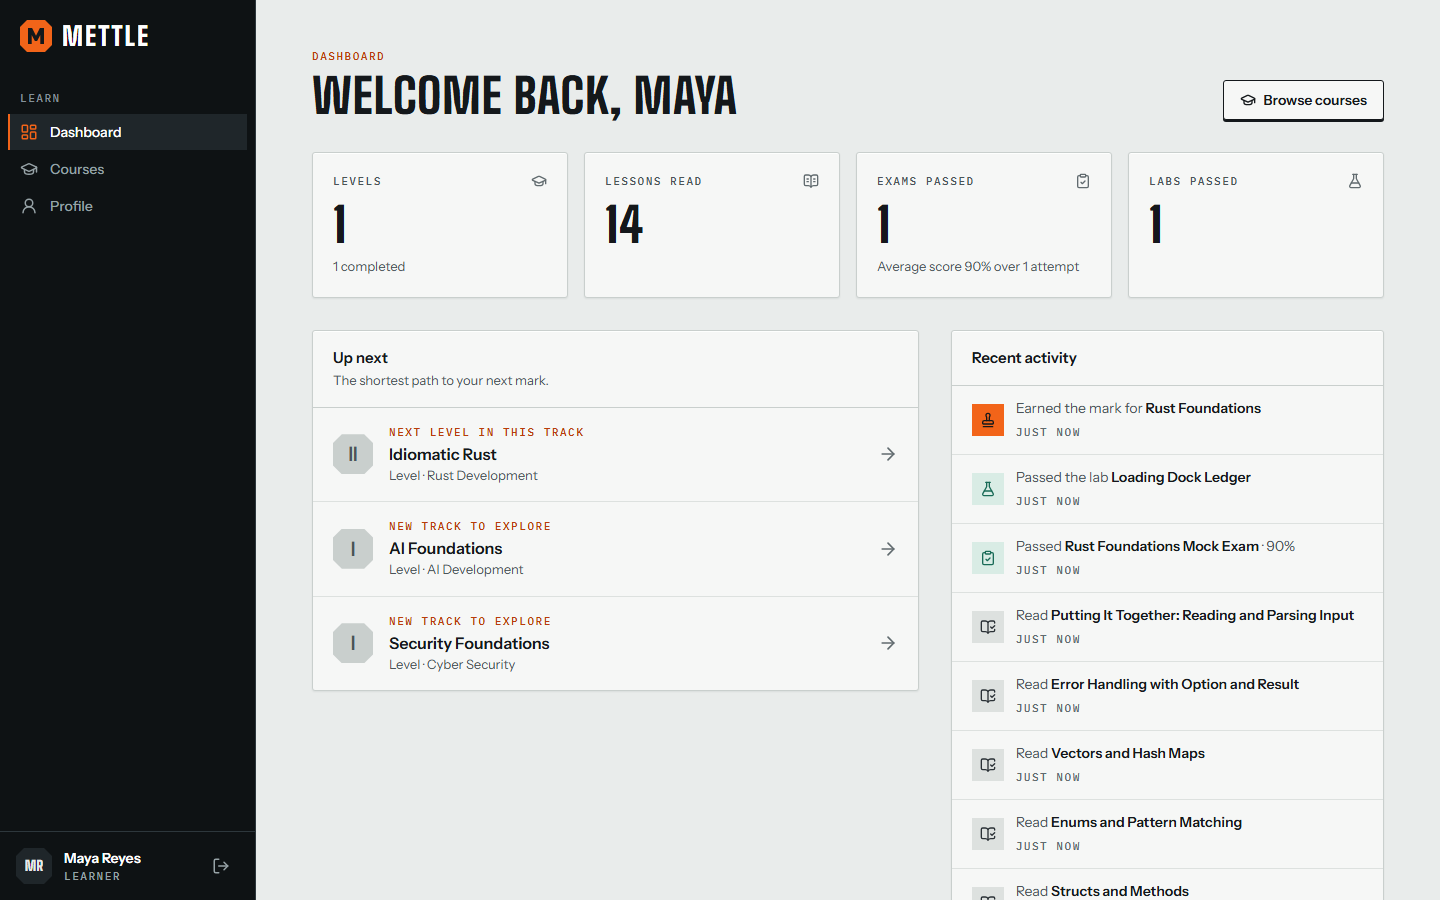
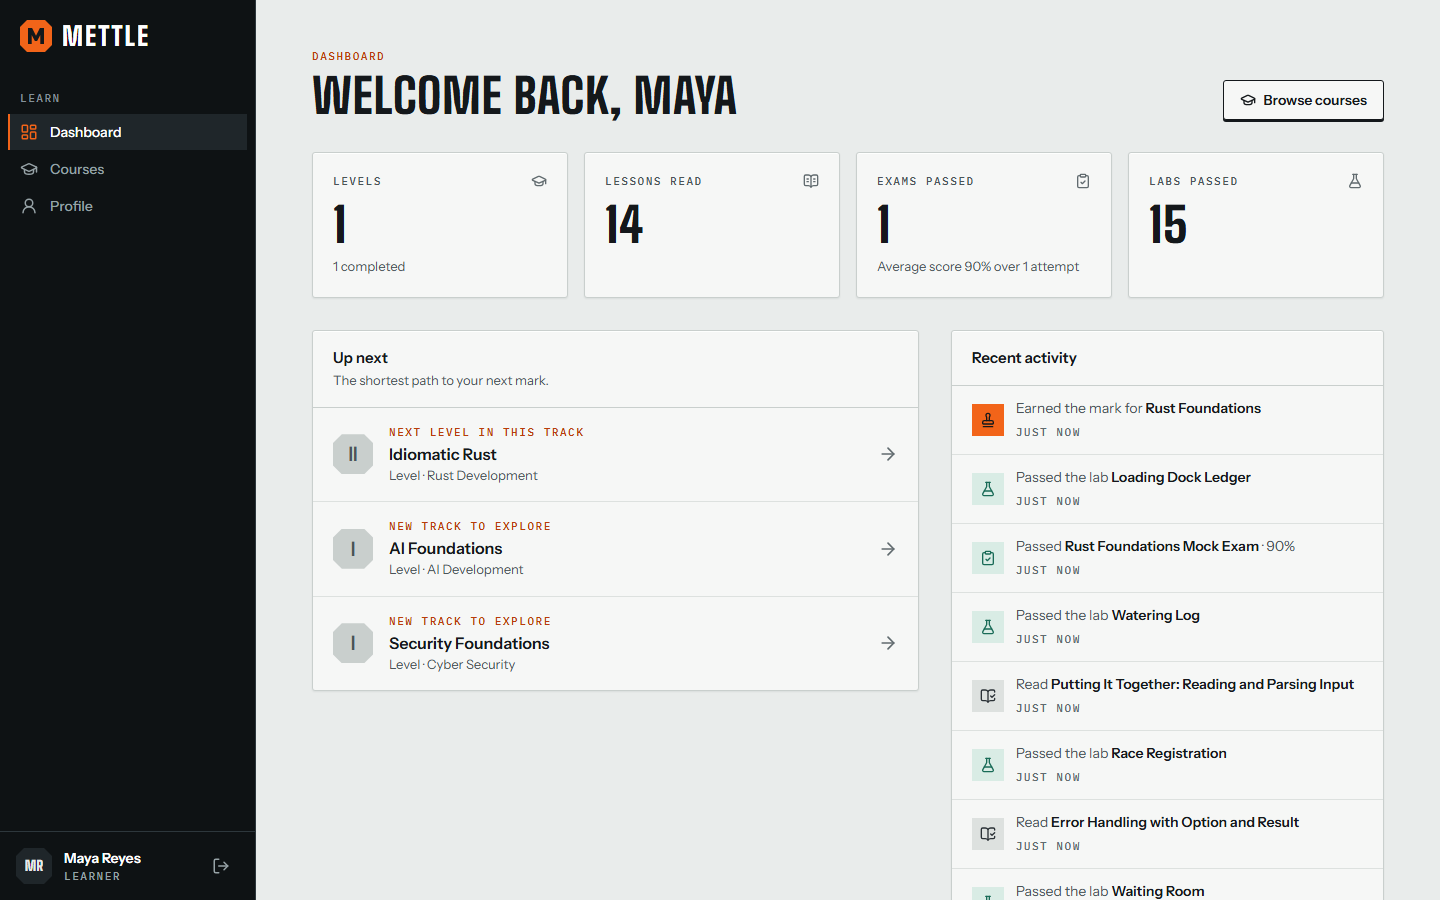
docs: explain practice labs, and walk them in the browser tour
The guides and the README describe practice labs. The tour now follows
the path a learner takes (read a lesson, pass its practice lab, go on
to the next lesson) for all fourteen, waits when it runs code faster
than the site's limit allows, and the screenshots are retaken.

diff --git a/apps/web/src/features/guide/learner-sections.tsx b/apps/web/src/features/guide/learner-sections.tsx
@@ -79,6 +79,11 @@ export function Lessons() {
           lesson stays readable after you mark it; you can come back before the exam.
         </p>
         <p>
+          Where a lesson has a <strong>practice lab</strong>, it is offered at the end: choose <strong>Try it now</strong>, or{' '}
+          <strong>Mark as read and practice</strong>. It is a ten-minute task in the editor, checked by tests like any other lab, and
+          passing it takes you on to the next lesson. Practice labs count toward the level.
+        </p>
+        <p>
           Most lessons end with a <strong>Practice</strong> section. Try the exercises before you open <strong>Show the answers</strong>:
           the answers stay folded until you ask for them. <strong>Further reading</strong> links to the official documentation the
           lesson is based on, and opens in a new tab.

diff --git a/README.md b/README.md
@@ -65,6 +65,8 @@ quick.
 - Lessons in Markdown with highlighted code, objectives and previous/next navigation.
 - Mock exams with a server-enforced timer, answers saved as you go, flagging, and a full review
   with explanations afterwards.
+- Practice labs: a small lab attached to a lesson, offered at the end of it and listed under it
+  on the level page.
 - Labs in a resizable split-screen workspace: brief, tests, files and history on the left; the
   Monaco editor and a test console on the right. *Run* tries the sample test, *Submit* runs them
   all. Drafts are saved automatically.
@@ -88,7 +90,7 @@ quick.
 | **AI Development** | AI Foundations | Building with LLMs | Models Under the Hood | Production AI Systems |
 | **Cyber Security** | Security Foundations | in development | in development | in development |
 
-61 lessons, 121 exam questions with explanations and 9 labs. Every lab is verified in the
+61 lessons, 121 exam questions with explanations and 23 labs. Every lab is verified in the
 sandbox: its reference solution passes, its starter code does not. The whole curriculum is
 plain files under [`content/`](content/README.md) and is documented in
 [docs/CURRICULUM.md](docs/CURRICULUM.md).
@@ -99,6 +101,8 @@ from the official documentation (The Rust Programming Language for the 2024 edit
 standard library reference, the Rustonomicon, the Cargo Book and others); each lesson has
 worked examples that were compiled and run, common mistakes, practice with answers, and links
 to its sources. Its four question banks hold 96 questions, and every exam attempt draws ten.
+In its first level every lesson ends with a ten-minute **practice lab**, so each idea is tried
+in the editor straight after it is read.
 AI Development and Cyber Security are still in the original short format (three lessons a
 level) and are next to be expanded.
 

diff --git a/docs/USER-GUIDE.md b/docs/USER-GUIDE.md
@@ -31,7 +31,8 @@ passwords match.*
 ## 2. Tracks, levels and marks
 
 A track is a subject. Each track has up to four levels, and every level is built the same way:
-**its lessons, one mock exam, one lab**.
+**its lessons, one mock exam, one lab**. In some levels each lesson also has a short **practice
+lab**, so you can try what you have just read.
 
 | Level | Name | Mark color |
 | --- | --- | --- |
@@ -74,6 +75,10 @@ end.
 ![A lesson with its objectives and a code example](../apps/web/public/guide-shots/06-lesson.png)
 
 At the end, choose **Mark as read and continue**. The lesson stays readable afterwards.
+
+Where a lesson has a **practice lab**, it is offered at the end: choose **Try it now**, or
+**Mark as read and practice**. It is a ten-minute task in the editor, checked by tests like any
+other lab, and passing it takes you on to the next lesson. Practice labs count toward the level.
 
 Most lessons end with a **Practice** section. Try the exercises before you open **Show the
 answers**: the answers stay folded until you ask for them. **Further reading** links to the
